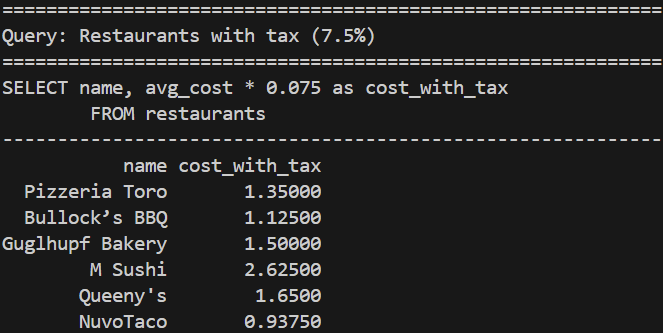
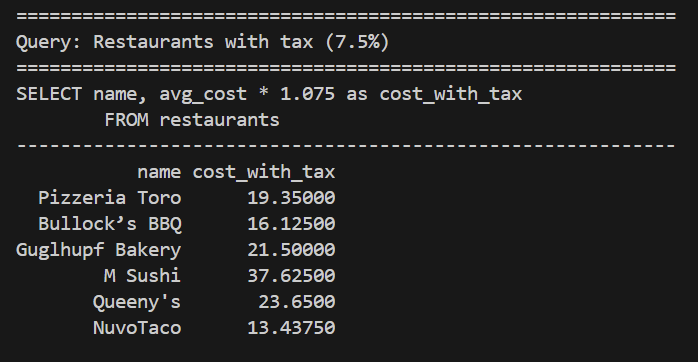
Fix database port mapping and update tax calculation in query

diff --git a/scripts/test_scripts.py b/scripts/test_scripts.py
@@ -64,7 +64,7 @@ def main():
     execute_and_display(
         cur,
         '''
-        SELECT name, avg_cost * 0.075 as cost_with_tax
+        SELECT name, avg_cost * 1.075 as cost_with_tax
         FROM restaurants
         ''',
         "Restaurants with tax (7.5%)"
